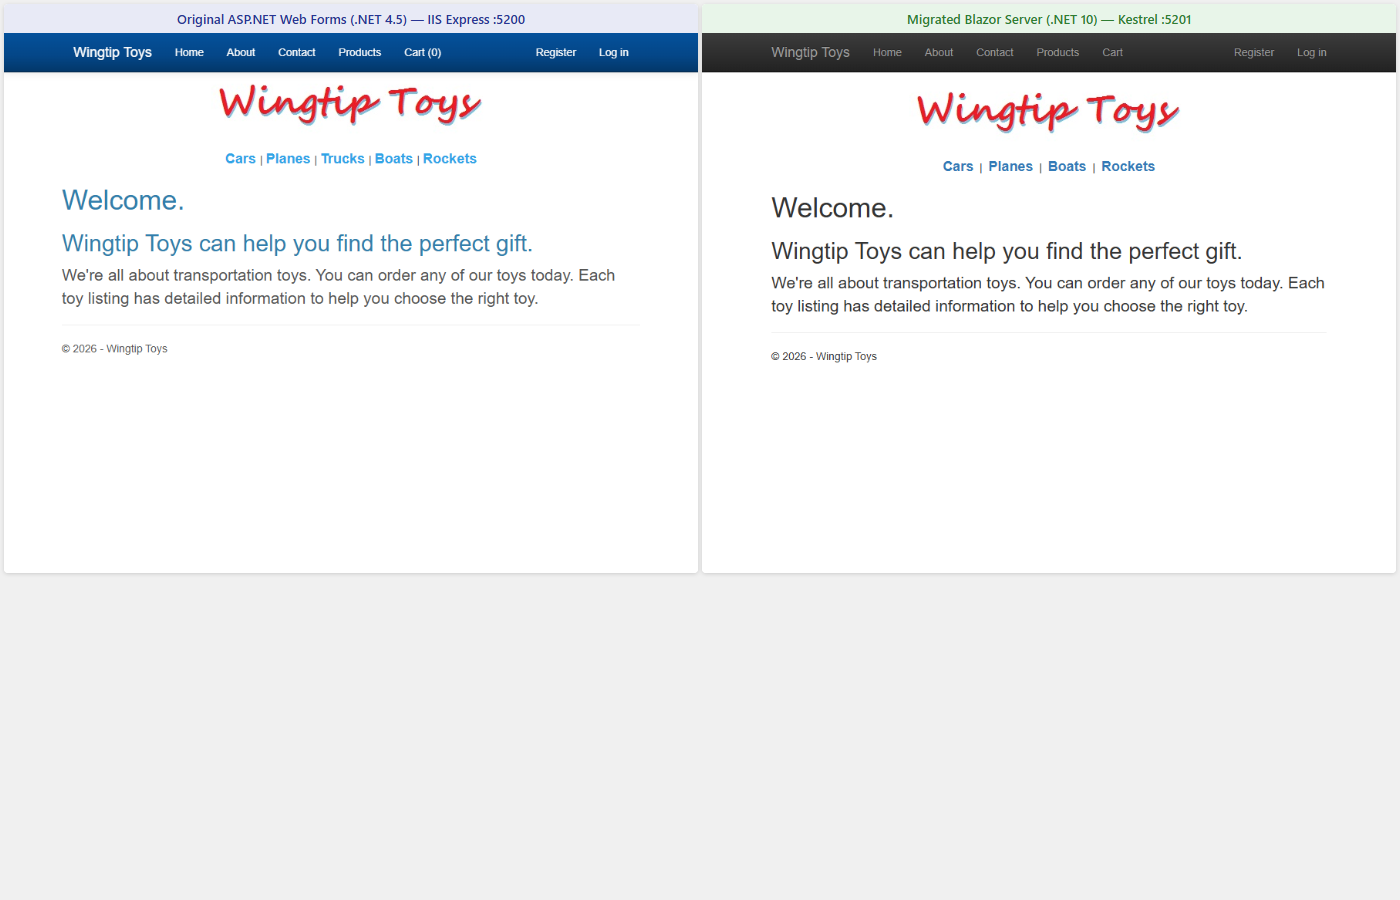
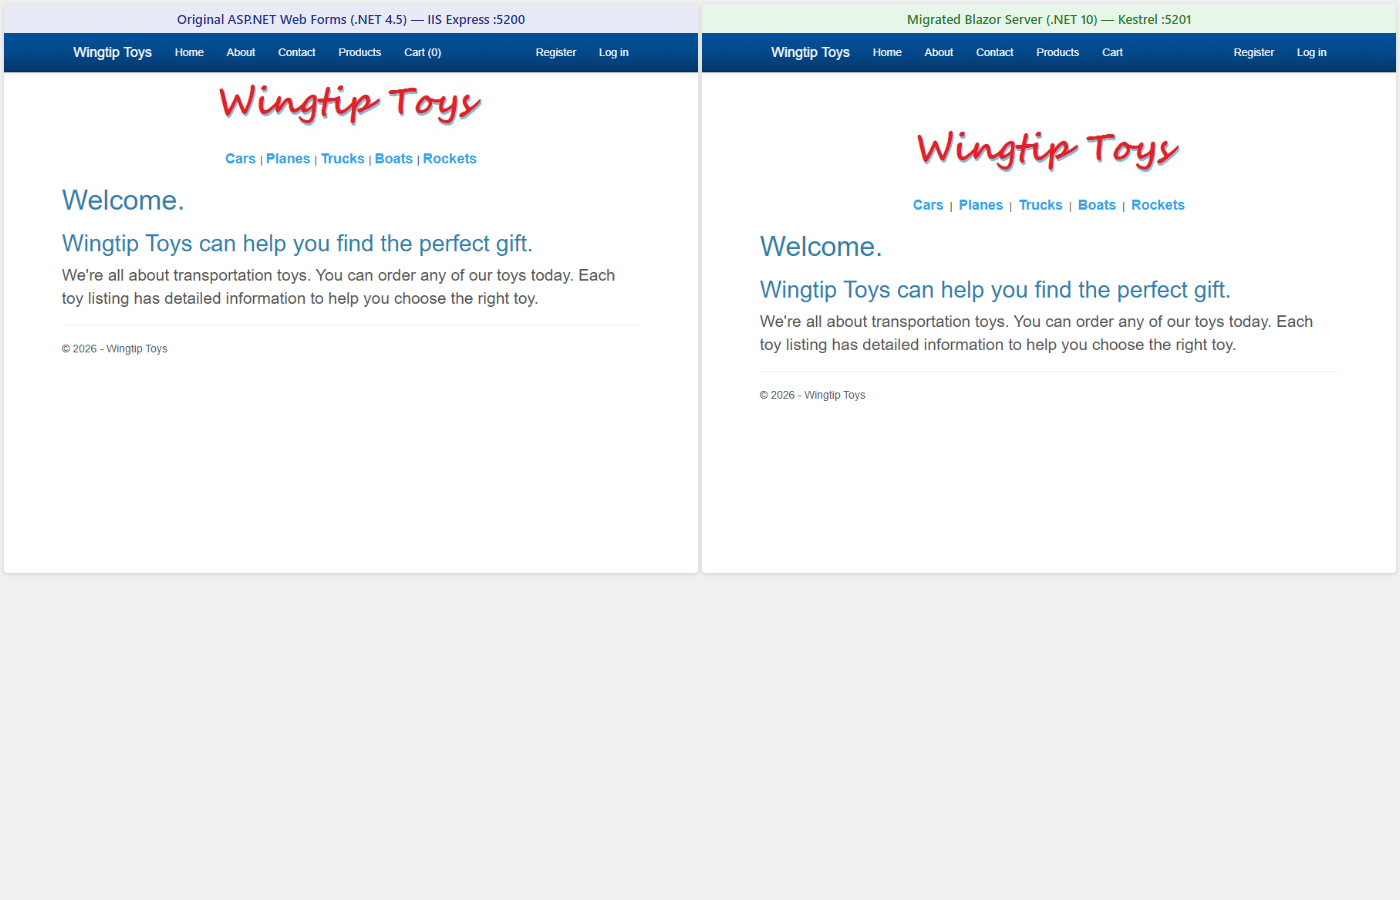
chore: update screenshots after CSS fidelity fixes
Fresh Playwright screenshots showing:
- Blue Cerulean navbar (was dark gray)
- 4-column product grid with 16 products (was single column, 8 products)
- Dollar sign currency formatting on cart prices (was missing)
- Updated side-by-side comparison PNGs

Changed region(s): [[0.5221, 0.2178, 0.9521, 0.4044], [0.4914, 0.0311, 1.0, 0.1867], [0.5529, 0.4356, 0.6143, 0.4667]]

diff --git a/.ai-team/agents/cyclops/history.md b/.ai-team/agents/cyclops/history.md
@@ -107,3 +107,28 @@ Built and ran the original WingtipToys sample from `samples/WingtipToys/` for sc
 **Files changed:**
 - `samples/WingtipToys/WingtipToys/Web.config` — connection strings updated
 - `samples/WingtipToys/Directory.Build.props` — created (empty, blocks NBGV inheritance)
+
+### Screenshot Refresh After CSS Fixes (2026-03-03)
+
+Took fresh screenshots of the migrated AfterWingtipToys site after 7 CSS/visual fixes (Cerulean theme, 4-column product grid, 16 products, BoundField currency formatting).
+
+**Workflow:**
+1. `dotnet run --project samples/AfterWingtipToys/WingtipToys.csproj --urls "http://localhost:5201"` — detached background process
+2. Playwright screenshots at 900×700 viewport for individual pages, 1400×900 for comparisons
+3. Served comparison HTML files via `python -m http.server` since Playwright blocks `file://` URLs
+4. Verified all 3 key visual requirements before capturing: blue Cerulean navbar ✓, 4-column product grid ✓, dollar signs on cart prices ✓
+
+**Original site (port 5200):** Not running at time of screenshot refresh. Existing original screenshots retained — they were captured in the prior session and remain valid.
+
+**Screenshots updated (6 files):**
+- `planning-docs/screenshots/migrated-home-real.png` — home page with Cerulean navbar
+- `planning-docs/screenshots/migrated-products-real.png` — 16 products in 4-column grid (full page)
+- `planning-docs/screenshots/migrated-cart-real.png` — cart with $ currency formatting
+- `planning-docs/screenshots/comparison-home-visual.png` — side-by-side home
+- `planning-docs/screenshots/comparison-products-visual.png` — side-by-side products (full page)
+- `planning-docs/screenshots/comparison-cart-visual.png` — side-by-side cart
+
+**Lessons:**
+- Playwright MCP blocks `file://` protocol — must serve local HTML via HTTP (e.g., `python -m http.server`) for comparison screenshots
+- Always verify visual requirements (navbar color, grid layout, currency format) from the accessibility snapshot BEFORE taking screenshots to avoid capturing stale/broken state
+- Detached `dotnet run` exits cleanly from the shell but the process keeps running — use `Get-NetTCPConnection` to find the PID for cleanup
